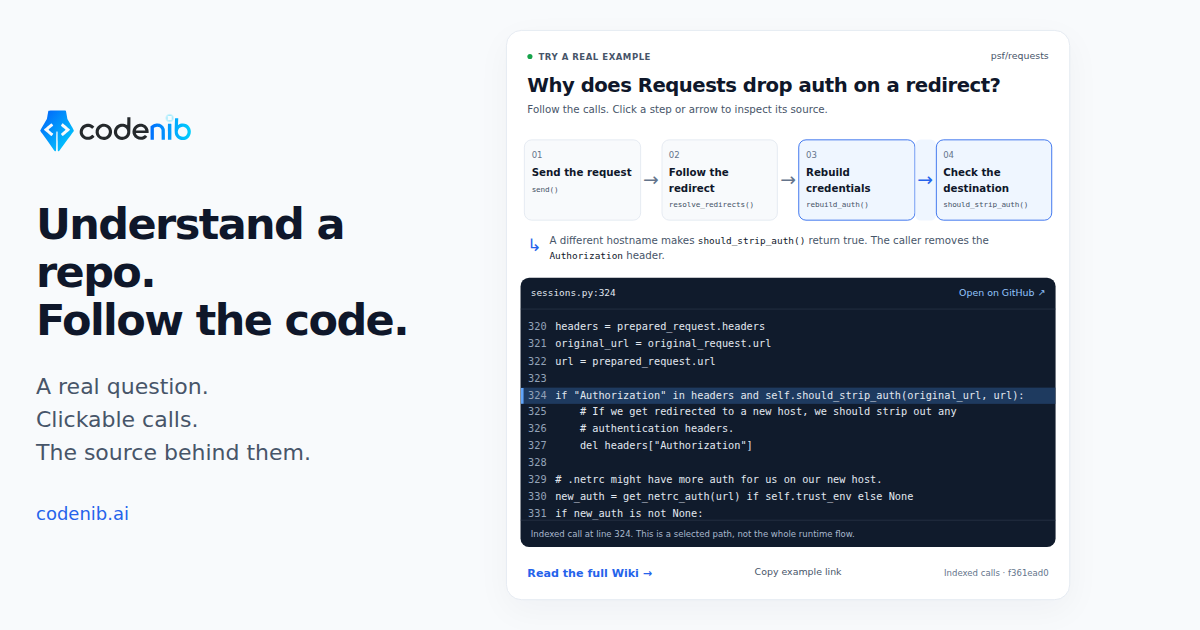
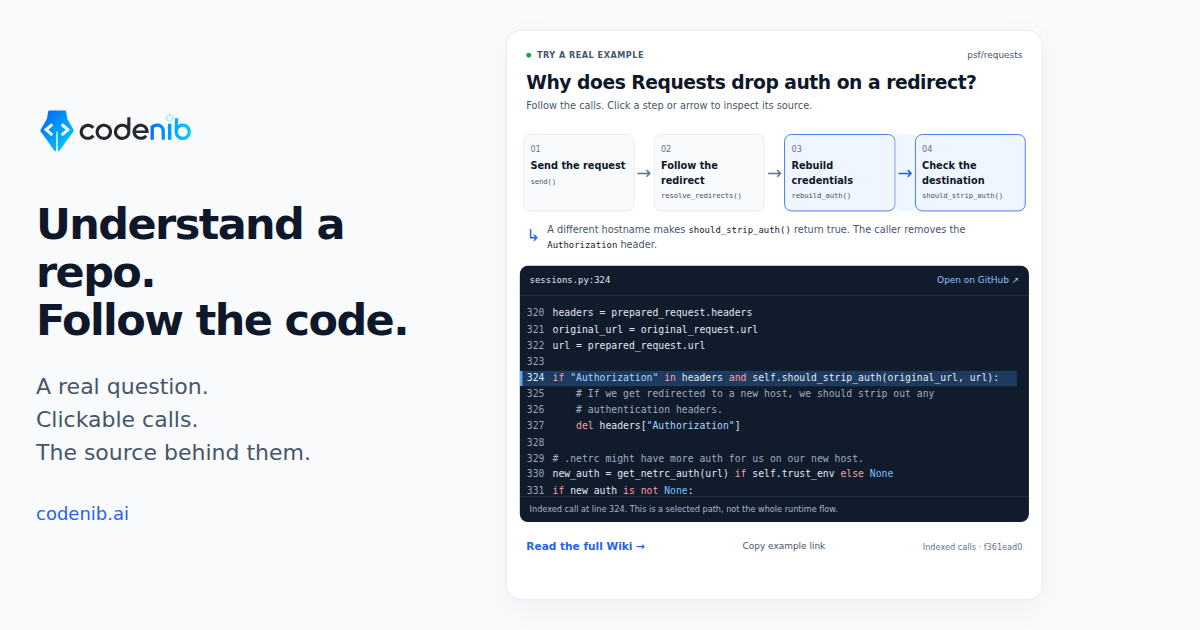
fix(web): stabilize and highlight the homepage source preview
Keep the source viewport and explanatory notes stable across node and call selections so the hero and page do not jump. Pre-render Python syntax with the existing highlighter and preserve exact excerpt text and call-line alignment.

Verify both sites at desktop and mobile widths with normal and reduced motion, production build, syntax artifact check, pinned hooks, strict docs build, and public-doc boundary.

diff --git a/landing/assets/explore/repo-explorer.js b/landing/assets/explore/repo-explorer.js
@@ -2,6 +2,7 @@
 // SPDX-License-Identifier: Apache-2.0
 
 import evidence from "./requests.js";
+import syntax from "./requests-highlight.js";
 
 const escape = (value) => String(value).replace(/[&<>"']/g, (char) => ({
   "&": "&amp;", "<": "&lt;", ">": "&gt;", '"': "&quot;", "'": "&#39;",
@@ -9,6 +10,10 @@ const escape = (value) => String(value).replace(/[&<>"']/g, (char) => ({
 const symbol = (node) => node.symbol.split(".").at(-1);
 const sourceUrl = (file, line, end = line) =>
   `https://github.com/${evidence.repository}/blob/${evidence.commit}/${file}#L${line}-L${end}`;
+const nodeNote = (node, index) => index === 3
+  ? "Hostname check shown. The full method also handles scheme and port changes."
+  : `Excerpt from ${node.symbol}. Open GitHub to see the surrounding method.`;
+const edgeNote = (edge) => `Indexed call at line ${edge.anchor.line}. This is a selected path, not the whole runtime flow.`;
 
 /** One small, source-pinned preview shared by the static site and Wiki app.
  * All exploration is local. No source, graph, or inference API is contacted.
@@ -44,8 +49,17 @@ class RepoExplorer extends HTMLElement {
         </div>
         <section class="source" id="example-source" aria-label="Selected source excerpt">
           <div class="source-head"><span class="source-label"></span><a class="source-link" target="_blank" rel="noopener noreferrer">Open on GitHub ↗</a></div>
-          <pre tabindex="0" aria-label="Source code"><code class="source-code"></code></pre>
-          <p class="source-note" role="status"></p>
+          <div class="source-scroll" tabindex="0" role="region" aria-label="Source code">
+            <div class="source-code">
+              <span class="line-highlight" aria-hidden="true" hidden></span>
+              <div class="line-numbers" aria-hidden="true"></div>
+              <pre><code class="syntax"></code></pre>
+            </div>
+          </div>
+          <div class="source-note" role="status">
+            ${evidence.nodes.map((node, index) => `<p data-note="node-${index}" aria-hidden="true">${escape(nodeNote(node, index))}</p>`).join("")}
+            ${evidence.edges.map((edge, index) => `<p data-note="edge-${index}" aria-hidden="true">${escape(edgeNote(edge))}</p>`).join("")}
+          </div>
         </section>
         <footer>
           <a class="wiki-link" href="${escape(wiki)}">Read the full Wiki <span aria-hidden="true">→</span></a>
@@ -105,15 +119,21 @@ class RepoExplorer extends HTMLElement {
     });
     root.querySelector(".source-label").textContent = `sessions.py:${highlight || node.start_line}`;
     root.querySelector(".source-link").href = sourceUrl(node.file, highlight || node.start_line, highlight || end);
-    root.querySelector(".source-code").innerHTML = lines.map((line, offset) => {
+    root.querySelector(".line-numbers").innerHTML = lines.map((line, offset) => {
       const number = node.start_line + offset;
-      return `<span class="code-line${number === highlight ? " selected" : ""}"><span class="line-number" aria-hidden="true">${number}</span><span>${escape(line.slice(indent))}</span></span>`;
+      return `<span class="code-line${number === highlight ? " selected" : ""}">${number}</span>`;
     }).join("");
-    root.querySelector(".source-note").textContent = edge
-      ? `Indexed call at line ${highlight}. This is a selected path, not the whole runtime flow.`
-      : index === 3
-        ? "Hostname check shown. The full method also handles scheme and port changes."
-        : `Excerpt from ${node.symbol}. Open GitHub to see the surrounding method.`;
+    root.querySelector(".syntax").innerHTML = syntax[node.id]?.sha256 === node.sha256
+      ? syntax[node.id].html : escape(lines.map(line => line.slice(indent)).join("\n"));
+    const band = root.querySelector(".line-highlight");
+    band.hidden = highlight === undefined;
+    band.style.setProperty("--selected-row", highlight === undefined ? 0 : highlight - node.start_line);
+    root.querySelectorAll("[data-note]").forEach(note => {
+      note.setAttribute("aria-hidden", String(note.dataset.note !== `${kind}-${index}`));
+    });
+    // Reset only the source pane. Scrolling an element into view can move the
+    // whole page and displace the controls the visitor is currently clicking.
+    root.querySelector(".source-scroll").scrollTo({ top: 0, left: 0, behavior: "instant" });
     if (interacted) this.report("example_source_open");
   }
 }

diff --git a/landing/assets/explore/repo-explorer.css b/landing/assets/explore/repo-explorer.css
@@ -18,7 +18,7 @@ p { margin: 0; }
 header p { color: var(--text-secondary, #475569); font-size: 12px; }
 code { font-family: ui-monospace, monospace; }
 button { font: inherit; cursor: pointer; }
-button:focus-visible, a:focus-visible, pre:focus-visible { outline: 3px solid var(--accent, #2563eb); outline-offset: 3px; }
+button:focus-visible, a:focus-visible, .source-scroll:focus-visible { outline: 3px solid var(--accent, #2563eb); outline-offset: 3px; }
 .flow { display: grid; grid-template-columns: 1fr 24px 1fr 24px 1fr 24px 1fr; align-items: stretch; padding: 14px 20px; }
 .node { display: flex; flex-direction: column; align-items: flex-start; gap: 4px; min-width: 0; padding: 10px 8px; border: 1px solid var(--border-subtle, #e2e8f0); border-radius: 9px; background: var(--bg-muted, #f8fafc); color: inherit; text-align: left; }
 .step { color: var(--text-secondary, #64748b); font-size: 10px; }
@@ -36,18 +36,27 @@ button:focus-visible, a:focus-visible, pre:focus-visible { outline: 3px solid va
 a { color: var(--accent, #2563eb); text-decoration: none; }
 a:hover { text-decoration: underline; }
 .source-link { color: #93c5fd; white-space: nowrap; }
-pre { margin: 0; padding: 12px 0; overflow: auto; min-height: 178px; max-height: 246px; font-size: 12px; line-height: 1.65; tab-size: 4; }
-.source-code { display: block; min-width: max-content; }
-.code-line { display: flex; padding-right: 14px; }
-.code-line.selected { background: #1e3a5f; box-shadow: inset 3px 0 #60a5fa; }
-.line-number { flex: 0 0 40px; padding-right: 10px; color: #94a3b8; text-align: right; user-select: none; }
-.source-note { padding: 8px 12px; border-top: 1px solid #263244; color: #a9b8cc; font-size: 10px; }
+.source-scroll { height: 246px; overflow: auto; overscroll-behavior: contain; scrollbar-gutter: stable; font: 12px/1.65 ui-monospace, monospace; }
+.source-code { position: relative; display: flex; min-width: max-content; }
+pre { position: relative; margin: 0; padding: 12px 14px 12px 0; font: inherit; tab-size: 4; }
+.line-numbers { position: relative; flex: 0 0 40px; padding: 12px 10px 12px 0; color: #94a3b8; text-align: right; user-select: none; }
+.code-line { display: block; }
+.code-line.selected { color: #dbeafe; }
+.line-highlight { position: absolute; inset-inline: 0; top: calc(12px + var(--selected-row) * 1.65em); height: 1.65em; background: #1e3a5f; box-shadow: inset 3px 0 #60a5fa; }
+.hljs-keyword { color: #ff9da4; }
+.hljs-string { color: #a5d6ff; }
+.hljs-comment { color: #9caec4; }
+.hljs-title, .hljs-built_in { color: #d2a8ff; }
+.hljs-number, .hljs-literal { color: #79c0ff; }
+/* All notes share a grid cell: the longest reserves space at every width. */
+.source-note { display: grid; padding: 8px 12px; border-top: 1px solid #263244; color: #a9b8cc; font-size: 10px; }
+.source-note p { grid-area: 1 / 1; visibility: hidden; }
+.source-note p[aria-hidden="false"] { visibility: visible; }
 footer { display: flex; justify-content: space-between; gap: 12px; padding: 16px 24px; align-items: center; flex-wrap: wrap; }
 .wiki-link { font-weight: 650; font-size: 13px; }
 .share { font-size: 11px; color: var(--text-secondary, #475569); border: 0; background: transparent; padding: 6px 0; }
 .share:hover { text-decoration: underline; }
-.share-status { font-size: 12px; padding: 0 24px; overflow-wrap: anywhere; }
-.share-status:not(:empty) { padding-bottom: 16px; }
+.share-status { min-height: 34px; font-size: 12px; padding: 0 24px 16px; overflow-wrap: anywhere; }
 .provenance { font-size: 10px; color: var(--text-secondary, #64748b); }
 .provenance a { color: inherit; }
 @media (max-width: 600px) {
@@ -59,7 +68,6 @@ footer { display: flex; justify-content: space-between; gap: 12px; padding: 16px
   .edge span { display: inline-block; transform: rotate(90deg); }
   .answer { margin: 0 16px 14px; }
   .source { margin: 0 10px; }
-  pre { font-size: 12px; }
   footer { padding: 14px 16px; }
 }
 @media (prefers-reduced-motion: reduce) { * { scroll-behavior: auto; } }

diff --git a/landing/assets/explore/requests-highlight.js b/landing/assets/explore/requests-highlight.js
@@ -1,0 +1,21 @@
+// SPDX-FileCopyrightText: 2025-2026 CodeNib Contributors
+// SPDX-License-Identifier: Apache-2.0
+// Generated by scripts/highlight_first_visit_example.mjs; do not hand-edit.
+export default {
+  "n7": {
[1 lines of base64/hex data omitted]
+    "html": "\n<span class=\"hljs-comment\"># Resolve redirects if allowed.</span>\n<span class=\"hljs-keyword\">if</span> allow_redirects:\n    <span class=\"hljs-comment\"># Redirect resolving generator.</span>\n    gen = <span class=\"hljs-variable language_\">self</span>.resolve_redirects(r, request, **kwargs)\n    history = [resp <span class=\"hljs-keyword\">for</span> resp <span class=\"hljs-keyword\">in</span> gen]\n<span class=\"hljs-keyword\">else</span>:\n    history = []"
+  },
+  "n0": {
[1 lines of base64/hex data omitted]
+    "html": "\n<span class=\"hljs-comment\"># Rebuild auth and proxy information.</span>\nproxies = <span class=\"hljs-variable language_\">self</span>.rebuild_proxies(prepared_request, proxies)\n<span class=\"hljs-variable language_\">self</span>.rebuild_auth(prepared_request, resp)\n\n<span class=\"hljs-comment\"># A failed tell() sets `_body_position` to `object()`. This non-None</span>"
+  },
+  "n1": {
[1 lines of base64/hex data omitted]
+    "html": "headers = prepared_request.headers\noriginal_url = original_request.url\nurl = prepared_request.url\n\n<span class=\"hljs-keyword\">if</span> <span class=\"hljs-string\">&quot;Authorization&quot;</span> <span class=\"hljs-keyword\">in</span> headers <span class=\"hljs-keyword\">and</span> <span class=\"hljs-variable language_\">self</span>.should_strip_auth(original_url, url):\n    <span class=\"hljs-comment\"># If we get redirected to a new host, we should strip out any</span>\n    <span class=\"hljs-comment\"># authentication headers.</span>\n    <span class=\"hljs-keyword\">del</span> headers[<span class=\"hljs-string\">&quot;Authorization&quot;</span>]\n\n<span class=\"hljs-comment\"># .netrc might have more auth for us on our new host.</span>\nnew_auth = get_netrc_auth(url) <span class=\"hljs-keyword\">if</span> <span class=\"hljs-variable language_\">self</span>.trust_env <span class=\"hljs-keyword\">else</span> <span class=\"hljs-literal\">None</span>\n<span class=\"hljs-keyword\">if</span> new_auth <span class=\"hljs-keyword\">is</span> <span class=\"hljs-keyword\">not</span> <span class=\"hljs-literal\">None</span>:\n    prepared_request.prepare_auth(new_auth)"
+  },
+  "n3": {
[1 lines of base64/hex data omitted]
+    "html": "<span class=\"hljs-keyword\">def</span> <span class=\"hljs-title function_\">should_strip_auth</span>(<span class=\"hljs-params\">self, old_url: <span class=\"hljs-built_in\">str</span>, new_url: <span class=\"hljs-built_in\">str</span></span>) -&gt; <span class=\"hljs-built_in\">bool</span>:\n    <span class=\"hljs-string\">&quot;&quot;&quot;Decide whether Authorization header should be removed when redirecting&quot;&quot;&quot;</span>\n    old_parsed = urlparse(old_url)\n    new_parsed = urlparse(new_url)\n    <span class=\"hljs-keyword\">if</span> old_parsed.hostname != new_parsed.hostname:\n        <span class=\"hljs-keyword\">return</span> <span class=\"hljs-literal\">True</span>\n    <span class=\"hljs-comment\"># Special case: allow http -&gt; https redirect when using the standard</span>"
+  }
+};

diff --git a/landing/README.md b/landing/README.md
@@ -22,12 +22,18 @@ against the same prepared Requests index, without generating any prose:
 
 ```bash
 python scripts/build_first_visit_example.py --api-base http://127.0.0.1:8001 --check
+node scripts/highlight_first_visit_example.mjs --check
 node scripts/render_first_visit_share.mjs
 ```
 
 Remove `--check` only when deliberately updating the evidence. Review the
 commit, selected symbols, graph anchors and ranges together. Source excerpts
 are from Requests under Apache-2.0; its pinned license URL is in the artifact.
+After changing excerpts, regenerate their syntax asset with
+`node scripts/highlight_first_visit_example.mjs` using the installed Web
+dependencies. It uses the Wiki's existing highlight.js Python grammar, preserves
+the excerpt text, and adds no browser dependency or network request. The source
+pane keeps its height across selections; long code scrolls inside the pane.
 The renderer produces the real example's 1200×630 homepage sharing image.
 Repository-specific social images remain a separate task.
 

diff --git a/docs/adoption_roadmap.md b/docs/adoption_roadmap.md
@@ -106,7 +106,10 @@ Wiki social previews remain open.
 
 Local acceptance passes all three source links, keyboard operation, 1440/390/320
 pixel layouts, dark mode, reduced motion, catalog-outage exploration, aliases,
-refresh and Back navigation. The Web unit surface has 608 passing tests and one
+refresh and Back navigation. Syntax-colored excerpts retain their exact source
+text and aligned call highlights. Switching nodes/calls keeps the card, adjacent
+heading and page scroll position stable; long source scrolls inside a fixed-height
+pane. The Web unit surface has 608 passing tests and one
 skip; all 142 frontend tests pass. Production build, strict MkDocs and the
 public-doc boundary pass. Opt-in measurement records fixed events only, with
 tab-session deduplication, privacy-signal suppression and a bounded log collector

diff --git a/AGENTS.md b/AGENTS.md
@@ -72,6 +72,9 @@ commit, indexed relationship anchors and exact excerpts. Label a selected call
 path as such; do not present it as a complete architecture or runtime trace.
 Keep the marketing and Wiki example in one shared asset, and keep source-only
 previews separate from claims about arbitrary-repository graph coverage.
+Switching first-visit nodes or calls must keep the surrounding layout and page
+scroll position stable. Preserve syntax coloring and source-line alignment;
+scroll long excerpts only inside the source pane.
 
 ## Storage Scope Guard
 
